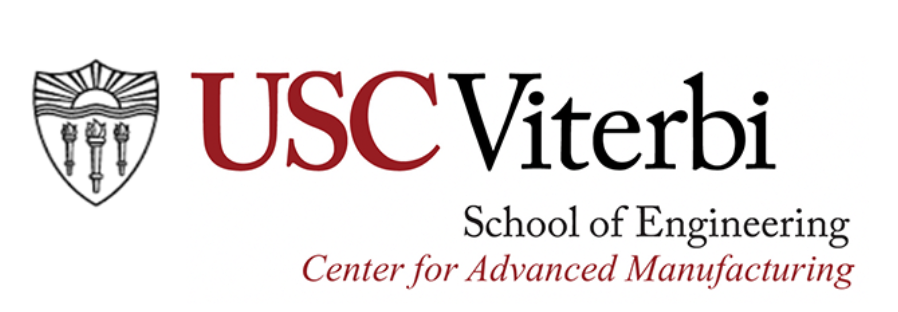
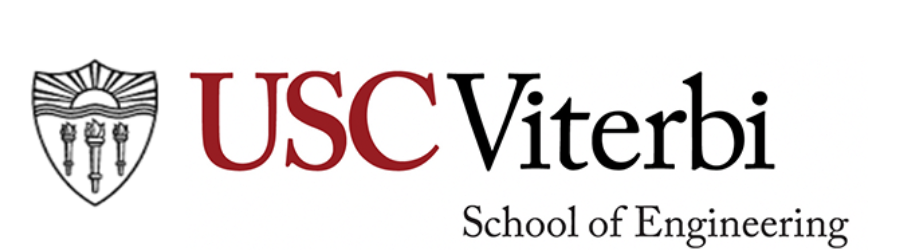
justify top of the pages

Changed region(s): [[0.0312, 0.196, 0.9677, 0.84], [0.3122, 0.812, 0.9677, 1.0]]

diff --git a/CAM/app/index.html b/CAM/app/index.html
@@ -27,11 +27,16 @@
 		  	<div class="row">	
 				<div class="col-sm-6">
 					<a href="https://viterbischool.usc.edu/" style="align: justify;">
-						<img src="images/pic1.png" width="270" height="100">
+						<img src="images/pic1.png" width="280" height="80">
 					</a>
+				</div>
+				<div class="col-sm-6" style="font-family: Big Caslon; font-size:25px;">
+						<center><h4 Style="color: #991b1e; text-align: right"><br>Center For Advanced</h4></center>
+						<h4 Style="color: #991b1e; text-align: right">Manufacturing</h4>
 				</div>
 		  	</div>
 	  </div>
+	  <br>
 	  
     <!-- Add your site or application content here -->
     <div class="header">
